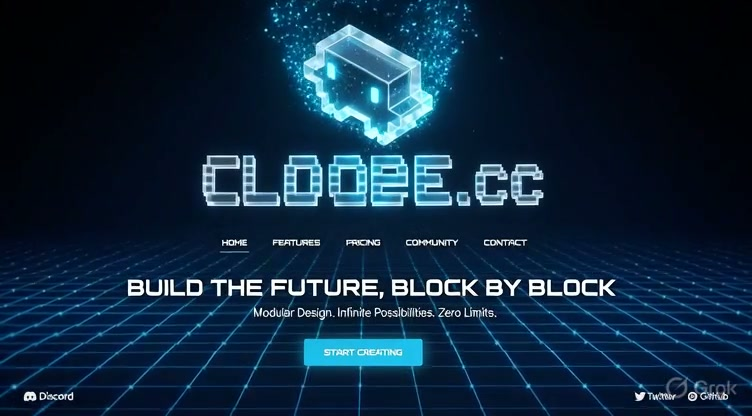
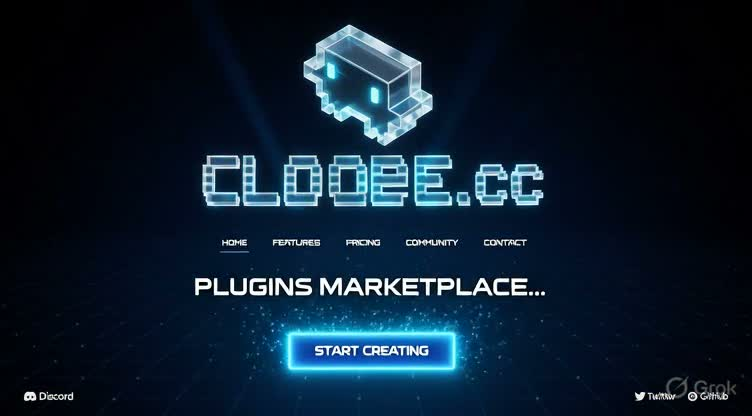
Make preloader full-screen and clip-end landing transition

diff --git a/frontend/src/App.tsx b/frontend/src/App.tsx
@@ -104,62 +104,84 @@ const BootOverlay = styled(motion.div)`
   position: fixed;
   inset: 0;
   z-index: 1200;
-  background: ${({ theme }) => `${theme.colors.background.primary}f1`};
-  display: grid;
-  place-items: center;
-  padding: 1rem;
+  background: ${({ theme }) => theme.colors.background.primary};
+  overflow: hidden;
 `
 
 const BootVideo = styled.video`
   position: absolute;
   inset: 0;
-  width: 100%;
-  height: 100%;
+  width: 100vw;
+  height: 100dvh;
   object-fit: cover;
-  transform: scale(1.18);
-  opacity: 0.84;
-  filter: blur(8px) saturate(1.16) contrast(1.08) brightness(0.56);
+  object-position: center center;
 `
 
 const BootVeil = styled.div`
   position: absolute;
   inset: 0;
   background:
-    radial-gradient(circle at 25% 15%, rgba(90, 230, 255, 0.16) 0%, transparent 42%),
-    radial-gradient(circle at 75% 20%, rgba(88, 246, 203, 0.15) 0%, transparent 44%),
-    linear-gradient(180deg, rgba(5, 12, 24, 0.42) 0%, rgba(5, 12, 24, 0.92) 100%);
+    radial-gradient(circle at 25% 15%, rgba(90, 230, 255, 0.16) 0%, transparent 40%),
+    radial-gradient(circle at 75% 20%, rgba(88, 246, 203, 0.12) 0%, transparent 44%),
+    linear-gradient(180deg, rgba(5, 12, 24, 0.22) 0%, rgba(5, 12, 24, 0.86) 100%);
 `
 
 const BootPanel = styled(MarketplacePanel)`
-  width: min(900px, 100%);
+  position: absolute;
+  left: 0;
+  right: 0;
+  margin: 0 auto;
+  bottom: clamp(0.8rem, 4.2vh, 2rem);
+  width: min(880px, calc(100% - 1.4rem));
   z-index: 2;
   display: grid;
-  gap: ${({ theme }) => theme.spacing.md};
+  gap: ${({ theme }) => theme.spacing.sm};
   text-align: center;
-`
 
-const BootTitle = styled(AsciiHeading)`
-  margin: 0;
+  @media (max-width: 700px) {
+    width: calc(100% - 0.8rem);
+    bottom: 0.45rem;
+    padding: ${({ theme }) => theme.spacing.sm};
+    gap: ${({ theme }) => theme.spacing.xs};
+  }
 `
 
 const BootCopy = styled.p`
   margin: 0;
   color: ${({ theme }) => theme.colors.text.secondary};
   font-family: ${({ theme }) => theme.fonts.mono};
-  font-size: 0.84rem;
+  font-size: 0.78rem;
   text-transform: uppercase;
   letter-spacing: 0.04em;
+  max-width: 52ch;
+  justify-self: center;
+
+  @media (max-width: 700px) {
+    font-size: 0.66rem;
+    max-width: 34ch;
+    line-height: 1.4;
+  }
 `
 
 const BootActions = styled.div`
-  display: flex;
-  flex-wrap: wrap;
+  display: grid;
+  grid-template-columns: repeat(3, auto);
   justify-content: center;
   gap: ${({ theme }) => theme.spacing.sm};
+
+  @media (max-width: 700px) {
+    width: 100%;
+    grid-template-columns: repeat(2, minmax(0, 1fr));
+    gap: ${({ theme }) => theme.spacing.xs};
+
+    > button:first-child {
+      grid-column: 1 / -1;
+    }
+  }
 `
 
 const HomeHero = styled.section`
-  min-height: min(760px, calc(100vh - 86px));
+  min-height: max(560px, calc(100dvh - 86px));
   position: relative;
   border-radius: ${({ theme }) => theme.borderRadius.lg};
   border: 1px solid ${({ theme }) => theme.colors.border.primary};
@@ -167,25 +189,24 @@ const HomeHero = styled.section`
   box-shadow: ${({ theme }) => theme.shadows.lg};
 `
 
-const HeroVideo = styled.video`
+const HeroBackdrop = styled.div`
   position: absolute;
   inset: 0;
-  width: 100%;
-  height: 100%;
-  object-fit: cover;
-  object-position: center center;
-  transform: scale(1.24);
-  opacity: 0.6;
-  filter: blur(10px) saturate(1.16) contrast(1.12) brightness(0.44);
+  background-image: url(${LANDING_POSTER});
+  background-size: cover;
+  background-position: center center;
+  transform: scale(1.06);
+  opacity: 0.82;
+  filter: blur(6px) saturate(1.08) contrast(1.02) brightness(0.52);
 `
 
 const HeroOverlay = styled.div`
   position: absolute;
   inset: 0;
   background:
-    radial-gradient(circle at 24% 22%, rgba(73, 230, 255, 0.2) 0%, transparent 34%),
-    radial-gradient(circle at 82% 18%, rgba(95, 255, 190, 0.14) 0%, transparent 36%),
-    radial-gradient(circle at 50% 48%, rgba(6, 12, 22, 0.46) 0%, rgba(6, 12, 22, 0.74) 52%, rgba(6, 12, 22, 0.88) 100%),
+    radial-gradient(circle at 24% 22%, rgba(73, 230, 255, 0.22) 0%, transparent 34%),
+    radial-gradient(circle at 82% 18%, rgba(95, 255, 190, 0.16) 0%, transparent 36%),
+    radial-gradient(circle at 50% 48%, rgba(6, 12, 22, 0.4) 0%, rgba(6, 12, 22, 0.68) 52%, rgba(6, 12, 22, 0.86) 100%),
     linear-gradient(180deg, rgba(6, 12, 22, 0.6) 0%, rgba(6, 12, 22, 0.94) 100%);
 `
 
@@ -319,7 +340,6 @@ function AppContent() {
   const [currentPage, setCurrentPage] = useState<Page>('home')
   const [showVideoBoot, setShowVideoBoot] = useState(false)
   const [bootMuted, setBootMuted] = useState(true)
-  const [heroMuted, setHeroMuted] = useState(true)
   const [catalog, setCatalog] = useState<MarketplaceItem[]>([])
   const [featured, setFeatured] = useState<MarketplaceItem[]>([])
 
@@ -384,16 +404,12 @@ function AppContent() {
     }
   }, [currentPage])
 
-  useEffect(() => {
-    if (!showVideoBoot) return
-    const timeout = window.setTimeout(() => {
-      try {
-        sessionStorage.setItem(BOOT_SESSION_KEY, '1')
-      } catch {}
-      setShowVideoBoot(false)
-    }, 3600)
-    return () => window.clearTimeout(timeout)
-  }, [showVideoBoot])
+  const completeBoot = () => {
+    try {
+      sessionStorage.setItem(BOOT_SESSION_KEY, '1')
+    } catch {}
+    setShowVideoBoot(false)
+  }
 
   const navigateTo = (path: string) => {
     const targetPage = mapPathToPage(path)
@@ -424,41 +440,32 @@ function AppContent() {
           >
             <BootVideo
               autoPlay
-              loop
               muted={bootMuted}
               playsInline
+              preload="auto"
               poster={LANDING_POSTER}
-              onError={() => setShowVideoBoot(false)}
+              onEnded={completeBoot}
+              onError={completeBoot}
             >
               <source src={LANDING_VIDEO} type="video/mp4" />
             </BootVideo>
             <BootVeil />
             <BootPanel initial={{ opacity: 0, y: 10 }} animate={{ opacity: 1, y: 0 }}>
-              <BootTitle text="CLDCDE MARKETPLACE" size="hero" level={1} align="center" />
-              <BootCopy>plugin + mcp marketplace booting // click enter to continue</BootCopy>
+              <Badge $tone="new">Launch Clip</Badge>
+              <BootCopy>full-screen launch clip // transitions on clip end</BootCopy>
               <BootActions>
                 <NeonButton
-                  onClick={() => {
-                    try {
-                      sessionStorage.setItem(BOOT_SESSION_KEY, '1')
-                    } catch {}
-                    setShowVideoBoot(false)
-                  }}
+                  onClick={completeBoot}
                   whileTap={{ scale: 0.98 }}
                 >
-                  Enter Marketplace
+                  Enter
                 </NeonButton>
                 <NeonButton $tone="secondary" onClick={() => setBootMuted((prev) => !prev)} whileTap={{ scale: 0.98 }}>
                   {bootMuted ? 'Unmute' : 'Mute'}
                 </NeonButton>
                 <NeonButton
                   $tone="ghost"
-                  onClick={() => {
-                    try {
-                      sessionStorage.setItem(BOOT_SESSION_KEY, '1')
-                    } catch {}
-                    setShowVideoBoot(false)
-                  }}
+                  onClick={completeBoot}
                   whileTap={{ scale: 0.98 }}
                 >
                   Skip
@@ -502,9 +509,7 @@ function AppContent() {
           <MarketplaceShell>
             <SectionRail initial={{ opacity: 0, y: 10 }} animate={{ opacity: 1, y: 0 }}>
               <HomeHero>
-                <HeroVideo autoPlay loop muted={heroMuted} playsInline poster={LANDING_POSTER}>
-                  <source src={LANDING_VIDEO} type="video/mp4" />
-                </HeroVideo>
+                <HeroBackdrop />
                 <HeroOverlay />
                 <HeroContent>
                   <Badge $tone="new">Marketplace Live</Badge>
@@ -522,9 +527,6 @@ function AppContent() {
                     </NeonButton>
                     <NeonButton $tone="ghost" onClick={() => navigateTo('/packs')} whileTap={{ scale: 0.98 }}>
                       View Packs
-                    </NeonButton>
-                    <NeonButton $tone="ghost" onClick={() => setHeroMuted((prev) => !prev)} whileTap={{ scale: 0.98 }}>
-                      {heroMuted ? 'Unmute' : 'Mute'}
                     </NeonButton>
                   </HeroActionRow>
                   <HeroMeta>
